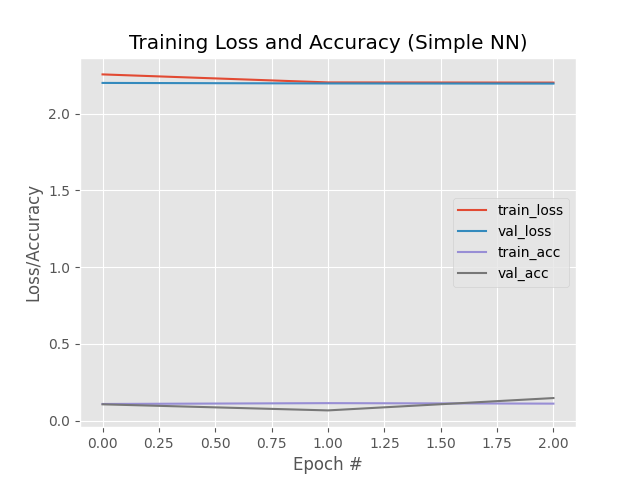
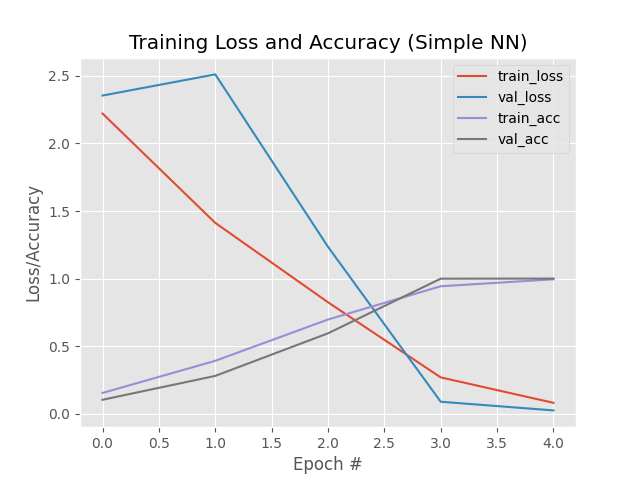
fix

diff --git a/train_simple_nn.py b/train_simple_nn.py
@@ -20,13 +20,13 @@ import matplotlib
 matplotlib.use("Agg")
 
 # Пути до файлов
-dataset=r'D:\ML\train_img'
+dataset=r'D:\ML\all_signs'
 path_model=r"./models/simple_nn"
 label_bin =r"./models/simple_nn.pickle"
 plot= r"./simple_nn_plot.png"
 # инициализируем скорость обучения и общее число эпох
-INIT_LR = 0.001
-EPOCHS = 3
+INIT_LR = 0.1
+EPOCHS = 5
 #INIT_LR = 0.0001
 #EPOCHS = 1000
 
@@ -85,10 +85,11 @@ model.add(Dense(1024, input_shape=(1776,), activation="sigmoid"))
 #model.add(Dense(2048, input_shape=(3072,), activation="sigmoid"))
 model.add(Dropout(0.3)) #прореживание - увеличивать кол-во эпох при приминении, например до 200.
 #model.add(Dense(1024, activation="sigmoid"))
-model.add(Dense(512, activation="sigmoid"))
+model.add(Dense(1024, activation="sigmoid"))
 model.add(Dropout(0.3))
-model.add(Dense(258, activation="sigmoid"))
+model.add(Dense(512, activation="sigmoid"))
 model.add(Dense(len(lb.classes_), activation="softmax"))
+
 
 # компилируем модель, используя SGD как оптимизатор и категориальную
 # кросс-энтропию в качестве функции потерь (для бинарной классификации
@@ -96,11 +97,11 @@ model.add(Dense(len(lb.classes_), activation="softmax"))
 print("[INFO] training network...")
 
 OPTIMIZER = SGD(lr=INIT_LR)
-# OPTIMIZER = tensorflow.keras.optimizers.SGD(learning_rate=0.1)
+#OPTIMIZER = tensorflow.keras.optimizers.SGD(learning_rate=0.1)
 #OPTIMIZER = Adam(lr=INIT_LR)
 
 
-# model.compile(loss='mean_squared_error', optimizer='sgd')
+# model.compile(loss='mean_squared_error', optimizer='sgd', metrics=["accuracy"])
 # model.compile(loss="categorical_crossentropy",  optimizer=OPTIMIZER)
 model.compile(loss="categorical_crossentropy",  optimizer=OPTIMIZER, metrics=["accuracy"])
 #model.compile(loss="categorical_crossentropy", optimizer=OPTIMIZER,  metrics=["binary_accuracy"])

diff --git a/test.py b/test.py
@@ -1,0 +1,36 @@
+import tensorflow as tf
+print("TensorFlow version:", tf.__version__)
+
+mnist = tf.keras.datasets.mnist
+
+(x_train, y_train), (x_test, y_test) = mnist.load_data()
+x_train, x_test = x_train / 255.0, x_test / 255.0
+
+model = tf.keras.models.Sequential([
+  tf.keras.layers.Flatten(input_shape=(28, 28)),
+  tf.keras.layers.Dense(128, activation='relu'),
+  tf.keras.layers.Dropout(0.2),
+  tf.keras.layers.Dense(10)
+])
+
+predictions = model(x_train[:1]).numpy()
+predictions
+
+loss_fn = tf.keras.losses.SparseCategoricalCrossentropy(from_logits=True)
+
+loss_fn(y_train[:1], predictions).numpy()
+
+model.compile(optimizer='adam',
+              loss=loss_fn,
+              metrics=['accuracy'])
+
+model.fit(x_train, y_train, epochs=5)
+
+model.evaluate(x_test,  y_test, verbose=2)
+
+probability_model = tf.keras.Sequential([
+  model,
+  tf.keras.layers.Softmax()
+])
+
+probability_model(x_test[:5])
